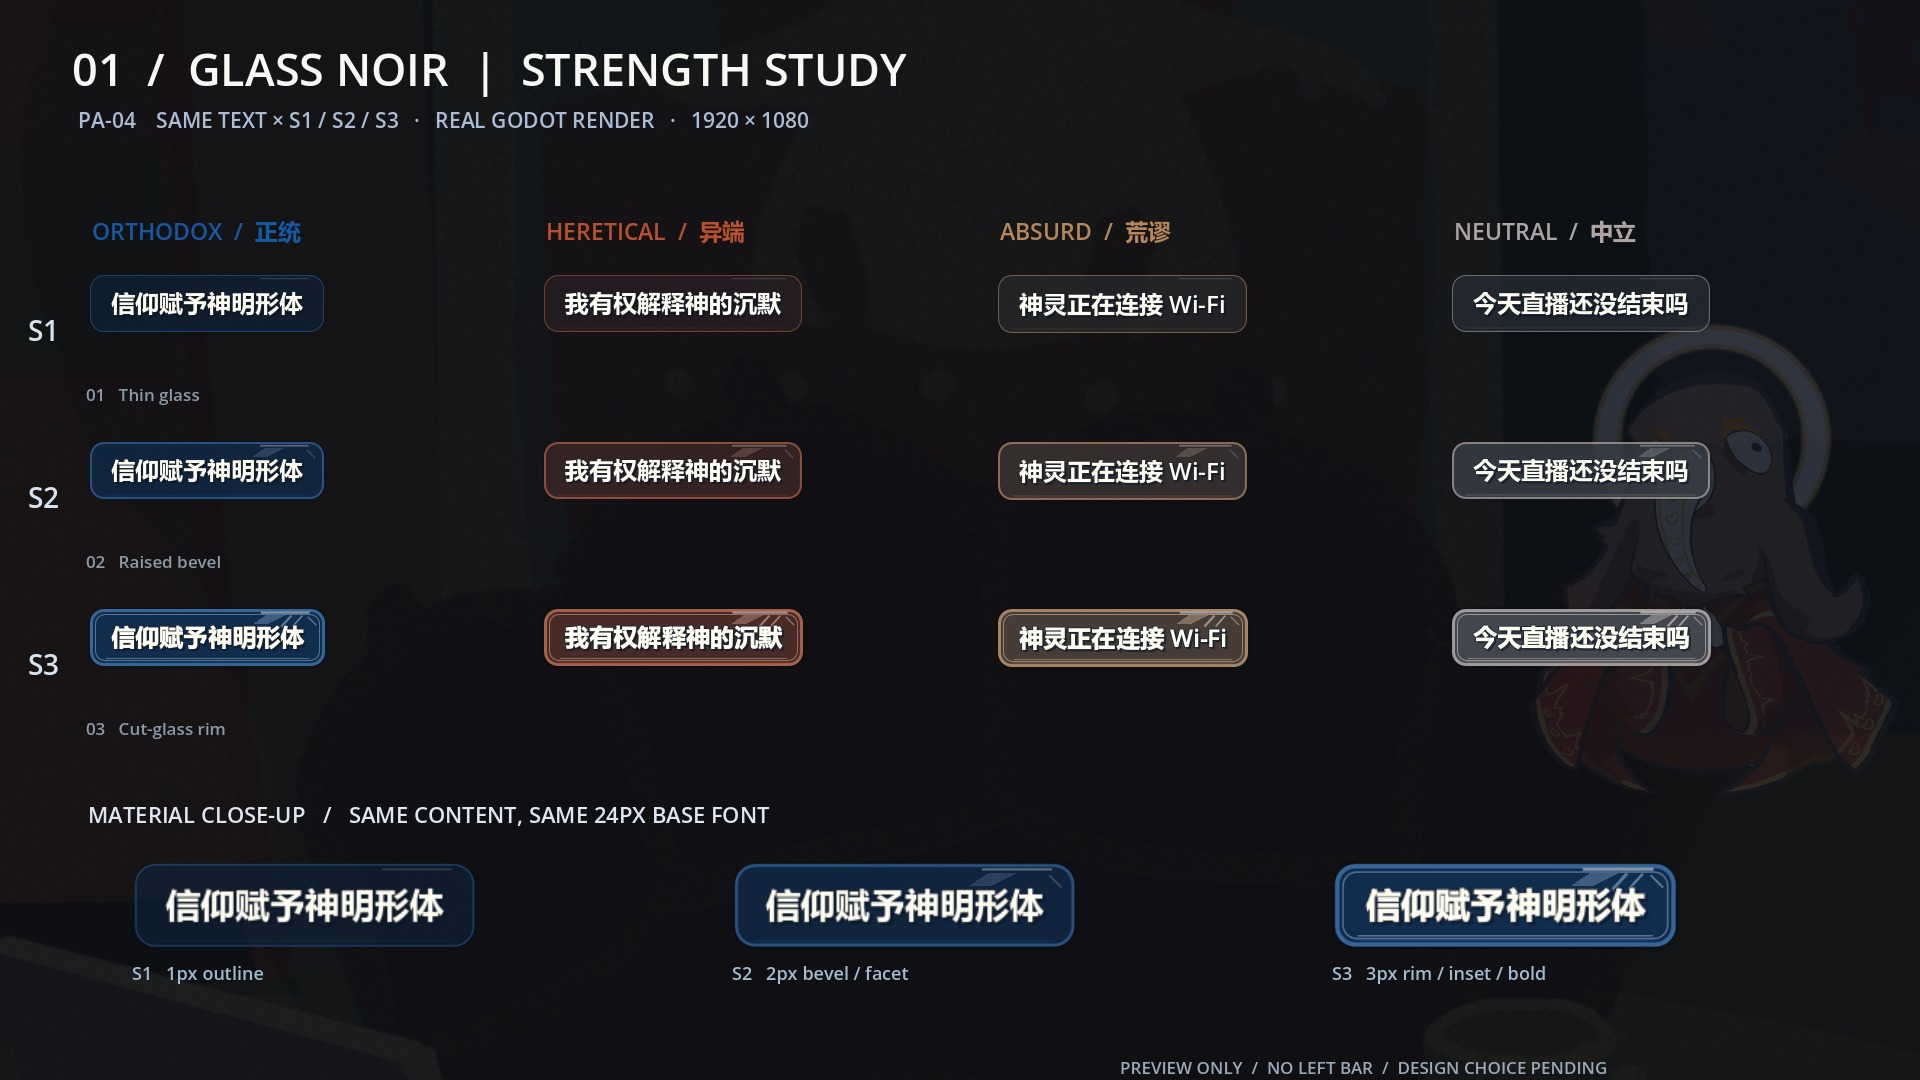
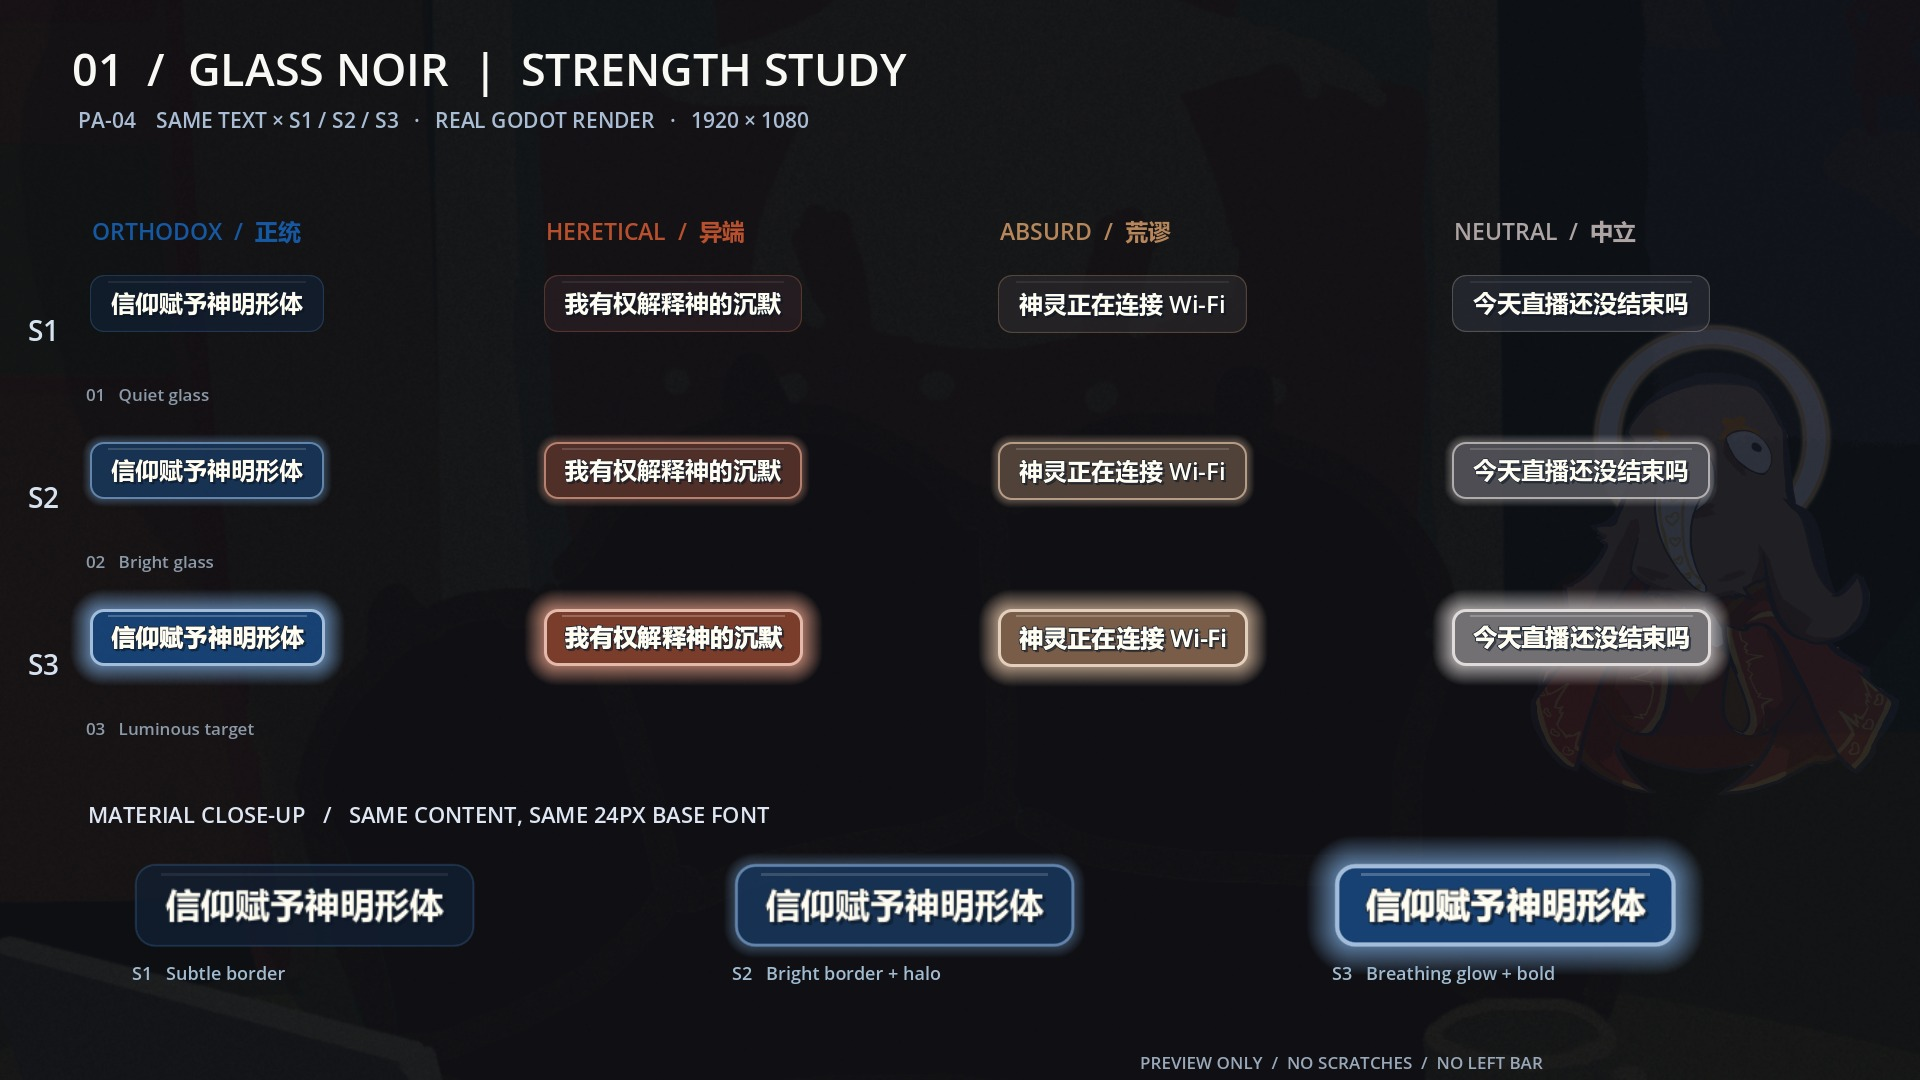
test(pa-04): capture actual Godot glow states and document visual hierarchy

diff --git a/docs/Shared/PresentationAssets/previews/PA04_noir_strength_preview_notes.md b/docs/Shared/PresentationAssets/previews/PA04_noir_strength_preview_notes.md
@@ -1,29 +1,26 @@
-# PA-04｜01 GLASS NOIR 强度样式对照｜2026-10-10
+# PA-04｜01 GLASS NOIR 强度视觉修订（2026-10-10）
 
-这是一张等待美术确认的**独立 Godot 实景预览**。不修改正式 PR #112，既有四种倾向色与 24px 基础字号保持一致。
+此分支仅供视觉评审，未合并正式 PR #112。收到反馈：旧 S3 右上斜线和双层内框像“刻痕”，与“强度越高越让玩家想打”的视觉目标背离，现已改为**亮度、外发光、字重**明确递进。
 
-## 倾向配色（已选 01）
-- 正统 `#1658A2`
-- 异端 `#B9502D`
-- 荒谬 `#B7865B`
-- Neutral `#ADA4A3`
+## 统一颜色（倾向）
+- 正统 `#1658A2`；异端 `#B9502D`；荒谬 `#B7865B`；Neutral `#ADA4A3`。
+- 所有档位保留 01 GLASS NOIR 色系。文字基础字号 24px、尺寸随文本自适应，不改变判定与生命周期。
 
-## 三档强度
-| 材质层 | S1 基础 | S2 强调 | S3 强目标 |
+## 强度与视觉权重
+
+| | S1 普通 | S2 值得注意 | S3 高优先级 |
 | --- | --- | --- | --- |
-| 外框 | 1px | 2px | 3px |
-| 玻璃透明度 alpha | 0.63 | 0.77 | 0.89 |
-| 底板色混合比例 | 0.18 | 0.27 | 0.36 |
-| 折光 | 右上薄反光 | 右上切面与局部反射 | 双层内框、右上双切面、下缘厚度 |
-| 文字 | 24px 常规 | 24px 常规 | 24px FontVariation +0.34 加粗、描边 3px |
+| 玻璃颜色混合 | 0.16 | 0.38 | 0.62 |
+| 玻璃 alpha | 0.66 | 0.84 | 0.95 |
+| 边框 | 1px 低亮 | 2px 明亮 | 3px 最亮 |
+| 视觉外光 | 无 | 8px 柔和常亮 | 13～20px 随时间缓慢呼吸 |
+| 字体 | 24px 普通字重 | 24px 普通字重 | 24px 加重 FontVariation，3px 文字描边 |
+| 装饰 | 顶部低透明反射 | 顶部浅反射 | 顶部更亮反射 |
 
-所有强度均取消左侧竖向专属装饰，也取消旧实现横贯全板的按钮式顶部反光。四倾向同一句文本分别在 S1～S3 对照；底部额外显示三档放大细节。针对 S3 使用 `FontVariation` 做字重变化，避免先前 BBCode `RichTextLabel` 截断问题。
+**已移除**：S3 左侧竖条、斜向切痕、双层硬内框及局部钻石刻纹。当前演示使用 `BarrageGlassSurface` 的 StyleBox 阴影形成真正可感知的外发光，呼吸节奏约 1.85 秒一轮，运行时只有 S3 做限频重绘。
 
-## 演示
-- 真实 PackedScene：`res://systems/barrage_generation/barrage_view.tscn`
-- 预览场景：`res://scenes/demos/pa04_noir_strength_preview.tscn`
-- 截图：`res://scenes/demos/pa04_noir_strength_capture.tscn -- --capture-strength`
-- 截图输出：`docs/Shared/PresentationAssets/previews/pa04_noir_strength_comparison.jpg`，1920×1080
-- 表现脚本：`scenes/demos/pa04_noir_strength_surface.gd`，只用于当前演示；确认后再把定稿样式转入正式 PA-04 组件。
-
-验证：Godot 4.7.2，脚本 `--check-only` 成功，OpenGL Compatibility 实际 GPU 截图退出码 0，无新增 stderr 错误。材质结构仍需负责人看画面确认；真实密集弹幕下的对比与移动端阅读测试留待集成。
+## 实际工程验证
+- 脚本：`pa04_noir_strength_surface.gd`、`pa04_noir_strength_preview.gd` Godot 4.7.2 `--check-only` exit 0。
+- 真实图形运行：1920×1080，OpenGL Compatibility，`pa04_noir_strength_comparison.jpg` 和 `pa04_noir_strength_comparison_breathing.jpg` 两个时刻均保存成功，exit 0，未出现脚本 stderr。
+- 每种倾向同一句文字纵向对照 S1/S2/S3，底部另有三档放大版。外光效果是否适度，等待负责人看截图后决定。
+- 预览入口：`res://scenes/demos/pa04_noir_strength_preview.tscn`；截图入口：`res://scenes/demos/pa04_noir_strength_capture.tscn -- --capture-strength`。
